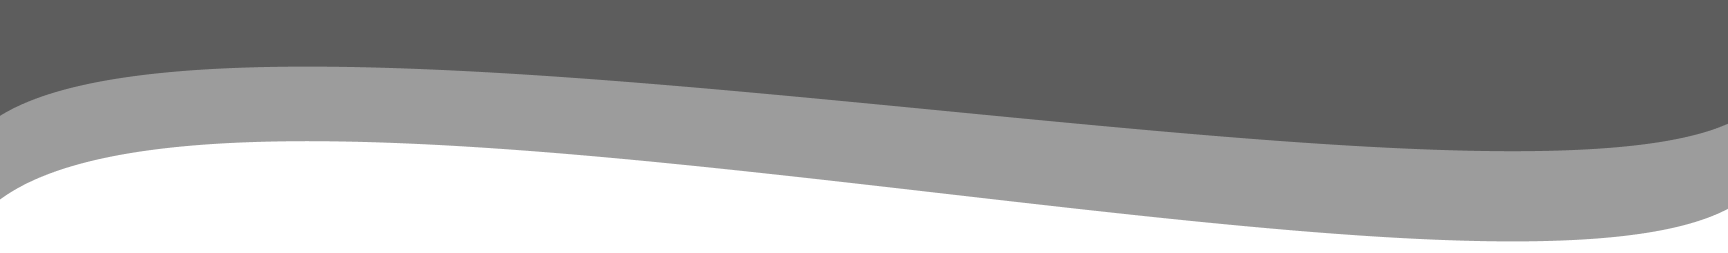
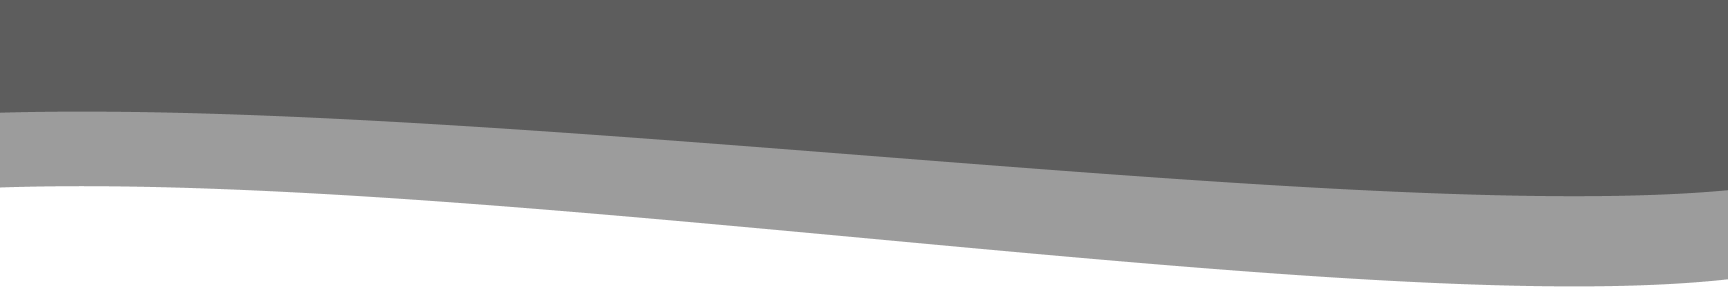
feat(reduzindo codigos): reduzindo codigos

Changed region(s): [[0.0, 0.249, 1.0, 0.664], [0.0, 0.5534, 0.8125, 0.9407], [0.8125, 0.83, 1.0, 0.9684]]

diff --git a/src/components/commons/Footer/index.tsx b/src/components/commons/Footer/index.tsx
@@ -7,17 +7,6 @@ import Text from '../../foundation/Text'
 export default function Footer () {
   return (
     <FooterWrapper>
-      <Box
-        display='flex'
-        flexDirection='column'
-        width='100%'
-        height='926px'
-        backgroundColor='#2B2929'
-        style={{
-          borderRadius: '20px',
-          alignItems: 'center'
-        }}
-      >
         <span
           style={{
             color: '#FFFFFF',
@@ -28,12 +17,19 @@ export default function Footer () {
           Entre em contato
         </span>
 
-        <Text
-          color='#FFFFFF'
-          margin='27px 0 0 0 '
-        >
-        Duvidas? Sujestões?
-        Preencha o cadastro e entraremos em contato
+          <Box
+            margin='27px 0 0 0 '
+            width={{
+              xs: '360px'
+            }}
+          >
+            <Text
+              color='#FFFFFF'
+            >
+              Duvidas? Sujestões?
+              Preencha o cadastro e entraremos em contato
+            </Text>
+          </Box>
 
         <form>
           <label htmlFor="name">Nome</label>
@@ -48,11 +44,11 @@ export default function Footer () {
           <label htmlFor="assunto">Assunto</label>
           <input type="text" />
 
+          <label htmlFor="mensagem">Mensagem</label>
+          <textarea />
         </form>
 
-        </Text>
         {/* <div>Ícones feitos por <a href="https://www.freepik.com" title="Freepik">Freepik</a> from <a href="https://www.flaticon.com/br/" title="Flaticon">www.flaticon.com</a></div> */}
-      </Box>
     </FooterWrapper>
   )
 }

diff --git a/src/components/wrappers/WebsitePages/index.tsx b/src/components/wrappers/WebsitePages/index.tsx
@@ -1,4 +1,4 @@
-import React, { createContext, useContext, useState } from 'react'
+import React, { createContext, useContext, useEffect, useState } from 'react'
 import Capa from '../../commons/Capa'
 import Footer from '../../commons/Footer'
 import Menu from '../../commons/Menu'
@@ -35,7 +35,21 @@ export default function WebsitePagesWrapper ({
   footerProps
 }: IWebsitePagesWrapper) {
   const [isModalOpen, setIsModalState] = useState(false)
+  const [width, setWindowWidth] = useState(0)
   const modeChangeContext = useContext(ModeContext)
+
+  useEffect(() => {
+    updateDimensions()
+
+    window.addEventListener('resize', updateDimensions)
+    return () =>
+      window.removeEventListener('resize', updateDimensions)
+  }, [])
+
+  const updateDimensions = () => {
+    const width = window.innerWidth
+    setWindowWidth(width)
+  }
 
   return (
     <WebsitePagesContext.Provider
@@ -45,22 +59,24 @@ export default function WebsitePagesWrapper ({
         }
       }}
     >
-      <SEO {...seoProps}/>
       <Box
         display='flex'
         flex='1'
         flexDirection='column'
         {...pageBoxProps}
       >
+        <SEO {...seoProps}/>
+
         {menuProps &&
             <Menu
               onClick={() => setIsModalState(!isModalOpen)}
               changeMode={() => {
                 modeChangeContext.toggleModeContext()
               }}
-              // width={width}
+              width={width}
             />
         }
+
         { capaProps && <Capa/>}
 
         <Modal

diff --git a/src/components/commons/Footer/styles.ts b/src/components/commons/Footer/styles.ts
@@ -1,11 +1,22 @@
-import styled from 'styled-components'
+import styled, { css } from 'styled-components'
+import breakpointsMedia from '../../../theme/utils/breakpointsMedia'
 
-export const FooterWrapper = styled.nav`
+export const FooterWrapper = styled.footer`
   display: flex;
+  flex-direction: column;
   justify-content: center;
   align-items: center;
-
   height: 926px;
+  background-color: #2B2929;
+
+  ${breakpointsMedia({
+    sm: css`
+      justify-content: space-between;
+    `,
+    lg: css`
+      justify-content: center;
+    `
+  })}
 
   form {
     display: flex;
@@ -13,11 +24,44 @@ export const FooterWrapper = styled.nav`
     align-items: center;
     label {
       padding-top: 45px;
+      color: ${({ theme }) => theme.colors.primary};
     }
 
     input {
       margin-top: 15px;
-      width: 100%;
+      height: 46px;
+      border-radius: 20px;
+
+      ${breakpointsMedia({
+        xs: css`
+          width: auto;
+        `,
+        sm: css`
+          width: auto;
+        `,
+        md: css`
+          width: 700px;
+        `
+      })}
+    }
+
+    textarea {
+      margin-top: 15px;
+      height: 140px;
+      border-radius: 20px;
+      resize: none;
+
+      ${breakpointsMedia({
+        xs: css`
+          width: auto;
+        `,
+        sm: css`
+          width: auto;
+        `,
+        md: css`
+          width: 700px;
+        `
+      })}
     }
   }
 

diff --git a/src/components/commons/Menu/styles.ts b/src/components/commons/Menu/styles.ts
@@ -3,25 +3,31 @@ import breakpointsMedia from '../../../theme/utils/breakpointsMedia'
 import { TextStyleVariants } from '../../foundation/Text'
 
 export const MenuWrapper = styled.nav`
-  position: absolute;
   display: flex;
   justify-content: space-between;
   align-items: center;
-  width: 100%;
+  width: 100vw;
   height: 60px;
   opacity: 0.8;
   background-color: #C4C4C4;
   color: #000000;
-  font-family: 'Poppins', sans-serif;
-  min-width: 360px;
-
+  min-width: 360px;  
 
   a + a {
     margin-left: 50px;
   }
 
   ${breakpointsMedia({
+    xs: css`
+      position: relative;
+      flex-wrap: wrap;
+    `,
+    sm: css`
+      position: absolute;
+      flex-wrap: nowrap;
+    `,
     md: css`
+      flex-wrap: nowrap;
       a {
         ${TextStyleVariants.title}
       }
@@ -30,6 +36,8 @@ export const MenuWrapper = styled.nav`
 
 `
 export const LeftSide = styled.div`
+  order: 1;
+
   ${breakpointsMedia({
     xs: css`
       padding-left: 20px;
@@ -48,6 +56,7 @@ export const LeftSide = styled.div`
 `
 export const MiddleSide = styled.div`
   display: flex;
+  order: 2;
 
   ${breakpointsMedia({
     sm: css`
@@ -61,6 +70,7 @@ export const MiddleSide = styled.div`
 
 `
 export const RightSide = styled.div`
+  order: 3;
 
   ${breakpointsMedia({
     xs: css`

diff --git a/src/components/commons/Capa/styles.ts b/src/components/commons/Capa/styles.ts
@@ -9,14 +9,27 @@ const CapaStyle = styled.div`
   flex-direction: column;
   justify-content: center;
   flex-wrap: wrap;
-  width: 100%;
   height: 846px;
-  background: linear-gradient(
-          rgba(0, 0, 0, 0.7), 
-          rgba(0, 0, 0, 0.7)
-        ), url('/city2.jpg');
   color: #FFFFFF;
   font-family: 'Poppins', sans-serif;
+  background-size: content;
+
+  ${breakpointsMedia({
+    xs: css`
+      background: linear-gradient(
+        rgba(0, 0, 0, 0.6), 
+        rgba(0, 0, 0, 0.6)
+      ), url('/citymini.png');
+      background-repeat: no-repeat;
+    `,
+    sm: css`
+      background: linear-gradient(
+        rgba(0, 0, 0, 0.6),
+        rgba(0, 0, 0, 0.6)
+      ), url('/city.png');
+
+    `
+  })}
   
   span {
     weight: 400;

diff --git a/src/components/screens/HomeScreen/index.tsx b/src/components/screens/HomeScreen/index.tsx
@@ -7,6 +7,7 @@ export default function HomeScreen () {
   return (
     <Box
       display='flex'
+      // flexDirection='column'
       justifyContent={{
         sm: 'space-between',
         lg: 'center'
@@ -14,7 +15,8 @@ export default function HomeScreen () {
       style={{
         alignItems: 'center',
         backgroundImage: 'url(/Ondas.png)',
-        backgroundRepeat: 'no-repeat'
+        backgroundRepeat: 'no-repeat',
+        backgroundSize: 'contain'
       }}
       height='846px'
     >
@@ -33,7 +35,6 @@ export default function HomeScreen () {
       >
         <Box
           display='flex'
-          width={{ xs: '100%' }}
           style={{ justifyContent: 'center' }}
         >
           <img src='/eumini.png' alt='avatar' />

diff --git a/src/components/commons/SEO/index.tsx b/src/components/commons/SEO/index.tsx
@@ -28,7 +28,10 @@ function SEO ({ headTitle }: any) {
 			<meta property="twitter:description" content={description}/>
 			<meta property="twitter:image" content={image} />
 
-			<meta name="viewport" content="width=device-width, initial-scale=1.0" />
+			<meta
+				name="viewport"
+				content="width=device-width, initial-scale=1.0 maximum-scale=1"
+			/>
 		</Head>
   )
 }

diff --git a/pages/index.tsx b/pages/index.tsx
@@ -7,9 +7,8 @@ export default websitePageHOC(HomeScreen, {
     seoProps: {
       headTitle: 'Home'
     },
-    pageBoxProps: {
-      flexWrap: 'wrap',
-      justifyContent: 'space-between'
-    }
+    footerProps: true,
+    capaProps: true,
+    menuProps: true
   }
 })

diff --git a/src/theme/GlobalStyle.ts b/src/theme/GlobalStyle.ts
@@ -20,7 +20,7 @@ const GlobalStyle = createGlobalStyle`
   html, body {
     display: flex;
     min-height: 100vh;
-    width: 100%;
+    width: 100vw;
   }
   #__next {
     flex: 1;

diff --git a/src/theme/themes/light.ts b/src/theme/themes/light.ts
@@ -6,7 +6,7 @@ export default {
 
   colors: {
     text: '#000000',
-    primary: '#ffb17a',
+    primary: '#EDEDED',
     secundary: '#fce762',
 
     background: '#EDEDED'
